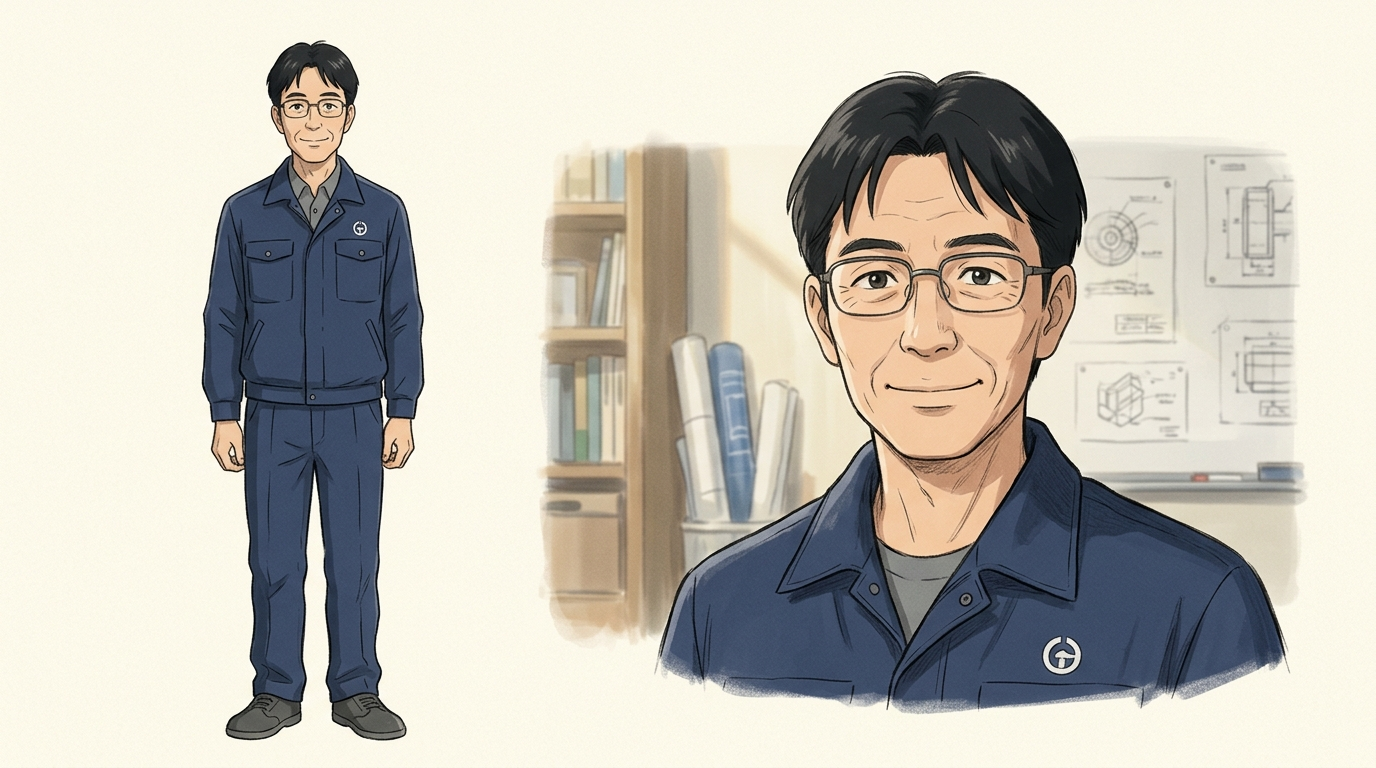
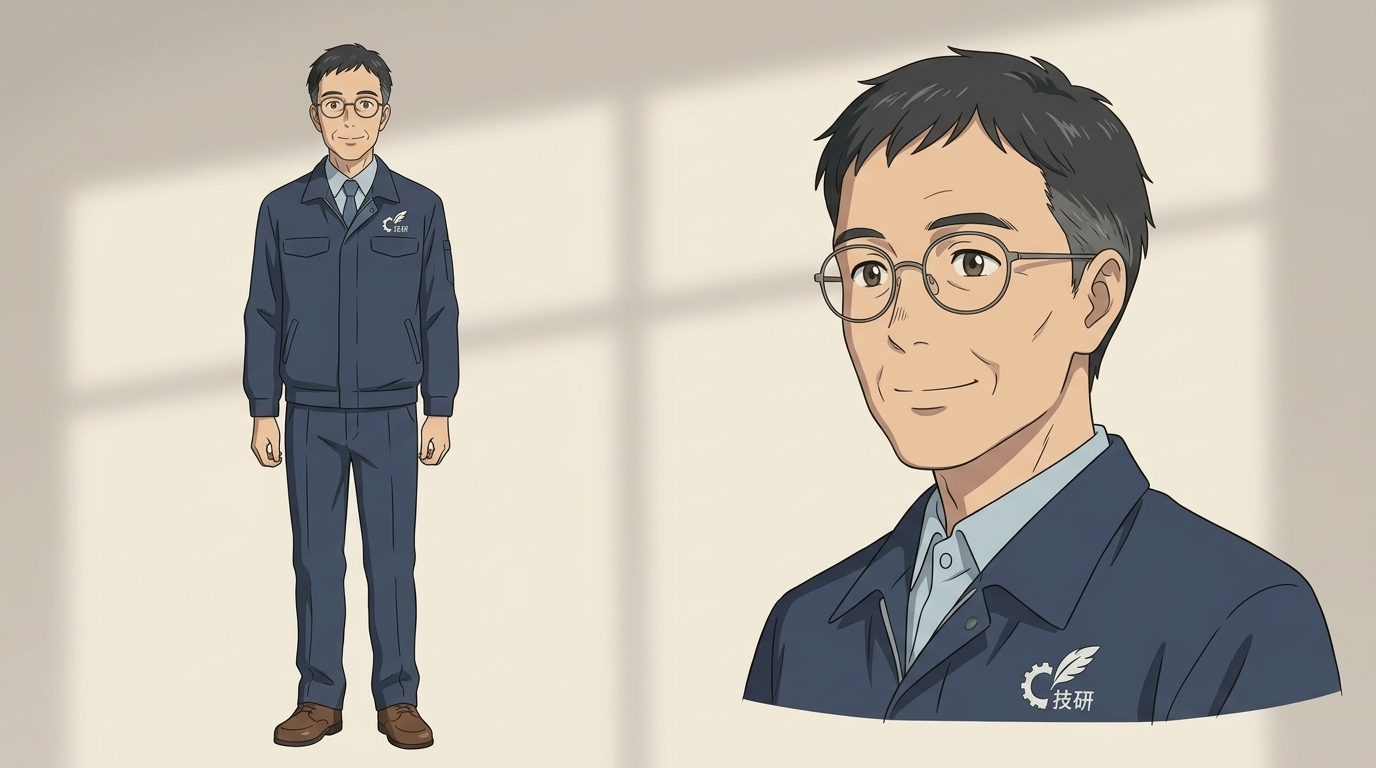
Redraw character and place references in the target anime style
Claude-Session: https://claude.ai/code/session_01VVEZCUrcZYnzyQqFn6XvYr

diff --git a/mv/restyle_refs.py b/mv/restyle_refs.py
@@ -1,0 +1,41 @@
+# 人物と場所の参照画像を、画風の見本（refs/style.jpg）に合わせて描き直す
+import base64
+from concurrent.futures import ThreadPoolExecutor
+from common import call, b64
+from staff import STAFF
+from make_clip import STYLE
+
+NOTE = "Image 1 shows ONLY the art style to copy (ignore the woman in it; do not copy her glasses, hair or clothes). Draw in exactly that art style. "
+SHEET = "A character reference sheet: full-body front view and a head-and-shoulders close-up side by side on a plain softly lit background. 16:9. No text. Character: "
+JOBS = {k: ([], SHEET + en) for k, (_, en) in STAFF.items()}
+JOBS["c1948"] = ([], SHEET + "a Japanese man in his twenties with short black hair, wearing a navy work jacket, 1940s clothing")
+P = "A 16:9 establishing shot with no people, drawn from the attached photo(s), keeping the real layout, objects and colors faithfully. No text, no logos, no maker names. "
+JOBS["exterior"] = (["photo_exterior"], P + "The factory building: long white building with a blue band and red stripe near the roof, yellow roll-up shutter, two-story office wing on the right, two sculpted Japanese pine trees and round shrubs, natural stone retaining wall, sloped driveway, wooded green hill behind, blue sky.")
+JOBS["factory_real"] = (["photo_interior_a", "photo_interior_b"], P + "The factory interior: very high ceiling with orange-brown steel roof beams on yellow columns, high clerestory windows, beige corrugated walls, grey concrete floor, large green radial drills and green machines, big cream-white machining centers, a yellow crane hook reel, welded steel frames and machined plates on the floor.")
+JOBS["big_part"] = (["photo_interior"], P + "Close-up hero shot of a huge flat precision-machined steel plate several meters long with a mirror-like milled surface, machined pockets, T-slots and bolt holes, resting on a grey concrete factory floor, machines blurred behind.")
+JOBS["cmm_device"] = (["photo_cmm"], "Draw ONLY the equipment on a plain light background, 16:9: a white and silver cylindrical tracking camera head on a black tripod, a black handheld touch probe with green marker LEDs and a red ruby stylus tip, and a handheld laser scan probe with green marker LEDs emitting blue laser light. No text, numbers, brand names or logos. ")
+JOBS["okazaki"] = ([], "A 16:9 establishing shot with no people: the city of Okazaki in Aichi seen from a hill, with the Yahagi River flowing through it. No text.")
+JOBS["old_shop"] = ([], "A 16:9 establishing shot with no people: a small 1940s Japanese machine workshop with wooden beams and old machines, slanted window light, sepia tones. No text.")
+JOBS["office"] = ([], "A 16:9 establishing shot with no people: a calm design office by the window with CAD monitors and machine drawings pinned on the wall. No text.")
+
+def go(item):
+    k, (photos, text) = item
+    parts = [{"inlineData": {"mimeType": "image/jpeg", "data": b64("refs/style.jpg")}}]
+    parts += [{"inlineData": {"mimeType": "image/jpeg", "data": b64(f"refs/{p}.jpg")}} for p in photos]
+    parts.append({"text": NOTE + text + " " + STYLE})
+    for _ in range(2):
+        try:
+            r = call("POST", "models/gemini-3.1-flash-image:generateContent", {"contents": [{"parts": parts}],
+                     "generationConfig": {"responseModalities": ["IMAGE"], "imageConfig": {"aspectRatio": "16:9"}}})
+            img = next(p["inlineData"] for p in r["candidates"][0]["content"]["parts"] if "inlineData" in p)
+            open(f"refs/{k}.jpg", "wb").write(base64.b64decode(img["data"]))
+            return "ok " + k
+        except Exception as e:
+            err = str(e)[:80]
+    return "FAIL " + k + " " + err
+
+if __name__ == "__main__":
+    import sys
+    keys = sys.argv[1:] or list(JOBS)
+    with ThreadPoolExecutor(5) as ex:
+        print(" ".join(ex.map(go, [(k, JOBS[k]) for k in keys])))

diff --git a/mv/stills.py b/mv/stills.py
@@ -14,9 +14,12 @@ def frame(cut):
     path = f"frames/cut{no}_first.jpg"
     if os.path.exists(path):
         return path
-    parts = [{"inlineData": {"mimeType": "image/jpeg", "data": b64(f"refs/{r}.jpg")}} for r in cut.get("refs", [])]
-    lead = ("Using the attached character and location references (keep faces, hair, clothing and places exactly the same), "
-            if parts else "")
+    # 1 枚目は画風の見本（refs/style.jpg）。人物や服は写さず、絵のタッチだけ合わせる
+    parts = [{"inlineData": {"mimeType": "image/jpeg", "data": b64("refs/style.jpg")}}]
+    parts += [{"inlineData": {"mimeType": "image/jpeg", "data": b64(f"refs/{r}.jpg")}} for r in cut.get("refs", [])]
+    lead = ("Image 1 shows ONLY the art style to copy (ignore the woman in it; do not copy her glasses, hair or clothes). "
+            + ("The other images are character and location references (keep their faces, hair, clothing and places exactly the same, drawn in the art style of image 1). "
+               if cut.get("refs") else ""))
     parts.append({"text": f"{lead}draw this shot as a single 16:9 film still: {cut['prompt']} {STYLE}"})
     r = call("POST", "models/gemini-3.1-flash-image:generateContent", {
         "contents": [{"parts": parts}],
@@ -42,7 +45,7 @@ def make(cut):
     except Exception as e:
         return f"FAIL {no}: {str(e)[:200]}"
 
-need = {n for n, _, _ in TIMELINE if not os.path.exists(f"clips/cut{n}.mp4")}
+need = {n for n, _, _ in TIMELINE if os.environ.get("ALL_STILLS") or not os.path.exists(f"clips/cut{n}.mp4")}
 todo = [c for c in CUTS if c["no"] in need]
 with ThreadPoolExecutor(4) as ex:
     for m in ex.map(make, todo):

diff --git a/mv/make_clip.py b/mv/make_clip.py
@@ -2,8 +2,9 @@
 import os, sys, time, urllib.request
 from common import call, KEY
 
-STYLE = ("Japanese hand-drawn anime film style, soft painterly backgrounds, warm natural light, "
-         "muted colors, gentle film grain, cinematic 16:9. No on-screen text, no logos, no sparks.")
+STYLE = ("Modern cinematic Japanese TV-anime film style: thin clean delicate line art, soft cel shading with smooth gradients, "
+         "realistic natural proportions and faces, calm subtle expressions, soft warm light with gentle bloom, shallow depth of field, "
+         "muted slightly desaturated colors, clean painterly backgrounds, cinematic 16:9. No on-screen text, no logos, no sparks.")
 NEGATIVE = "drilling, plunging down, wobbling, curved path, zigzag, flying metal chips, piles of shavings, debris scattering, stone, concrete, rock, cracks, cracked surface, sparks, flying sparks, sparkles, embers, fire, text, letters, logos, watermark, photorealistic"
 MODEL = os.environ.get("VEO_MODEL", "veo-3.1-fast-generate-preview")
 

diff --git a/mv/edit.py b/mv/edit.py
@@ -18,6 +18,8 @@ def ts(t):
 parts, STANDINS = [], []
 for i, (no, s, e) in enumerate(TIMELINE):
     src, dst, dur = f"clips/cut{no}.mp4", f"out/trim/{i:02d}_{no}.mp4", e - s
+    if os.environ.get("STILLS_ONLY") and os.path.exists(f"clips/still/cut{no}.mp4"):
+        src = f"clips/still/cut{no}.mp4"  # 画風を確かめるため、1 枚絵だけでつなぐ
     if not os.path.exists(src) and os.path.exists(f"clips/still/cut{no}.mp4"):
         src = f"clips/still/cut{no}.mp4"  # 動画ができるまでの 1 枚絵版
     if not os.path.exists(src):
